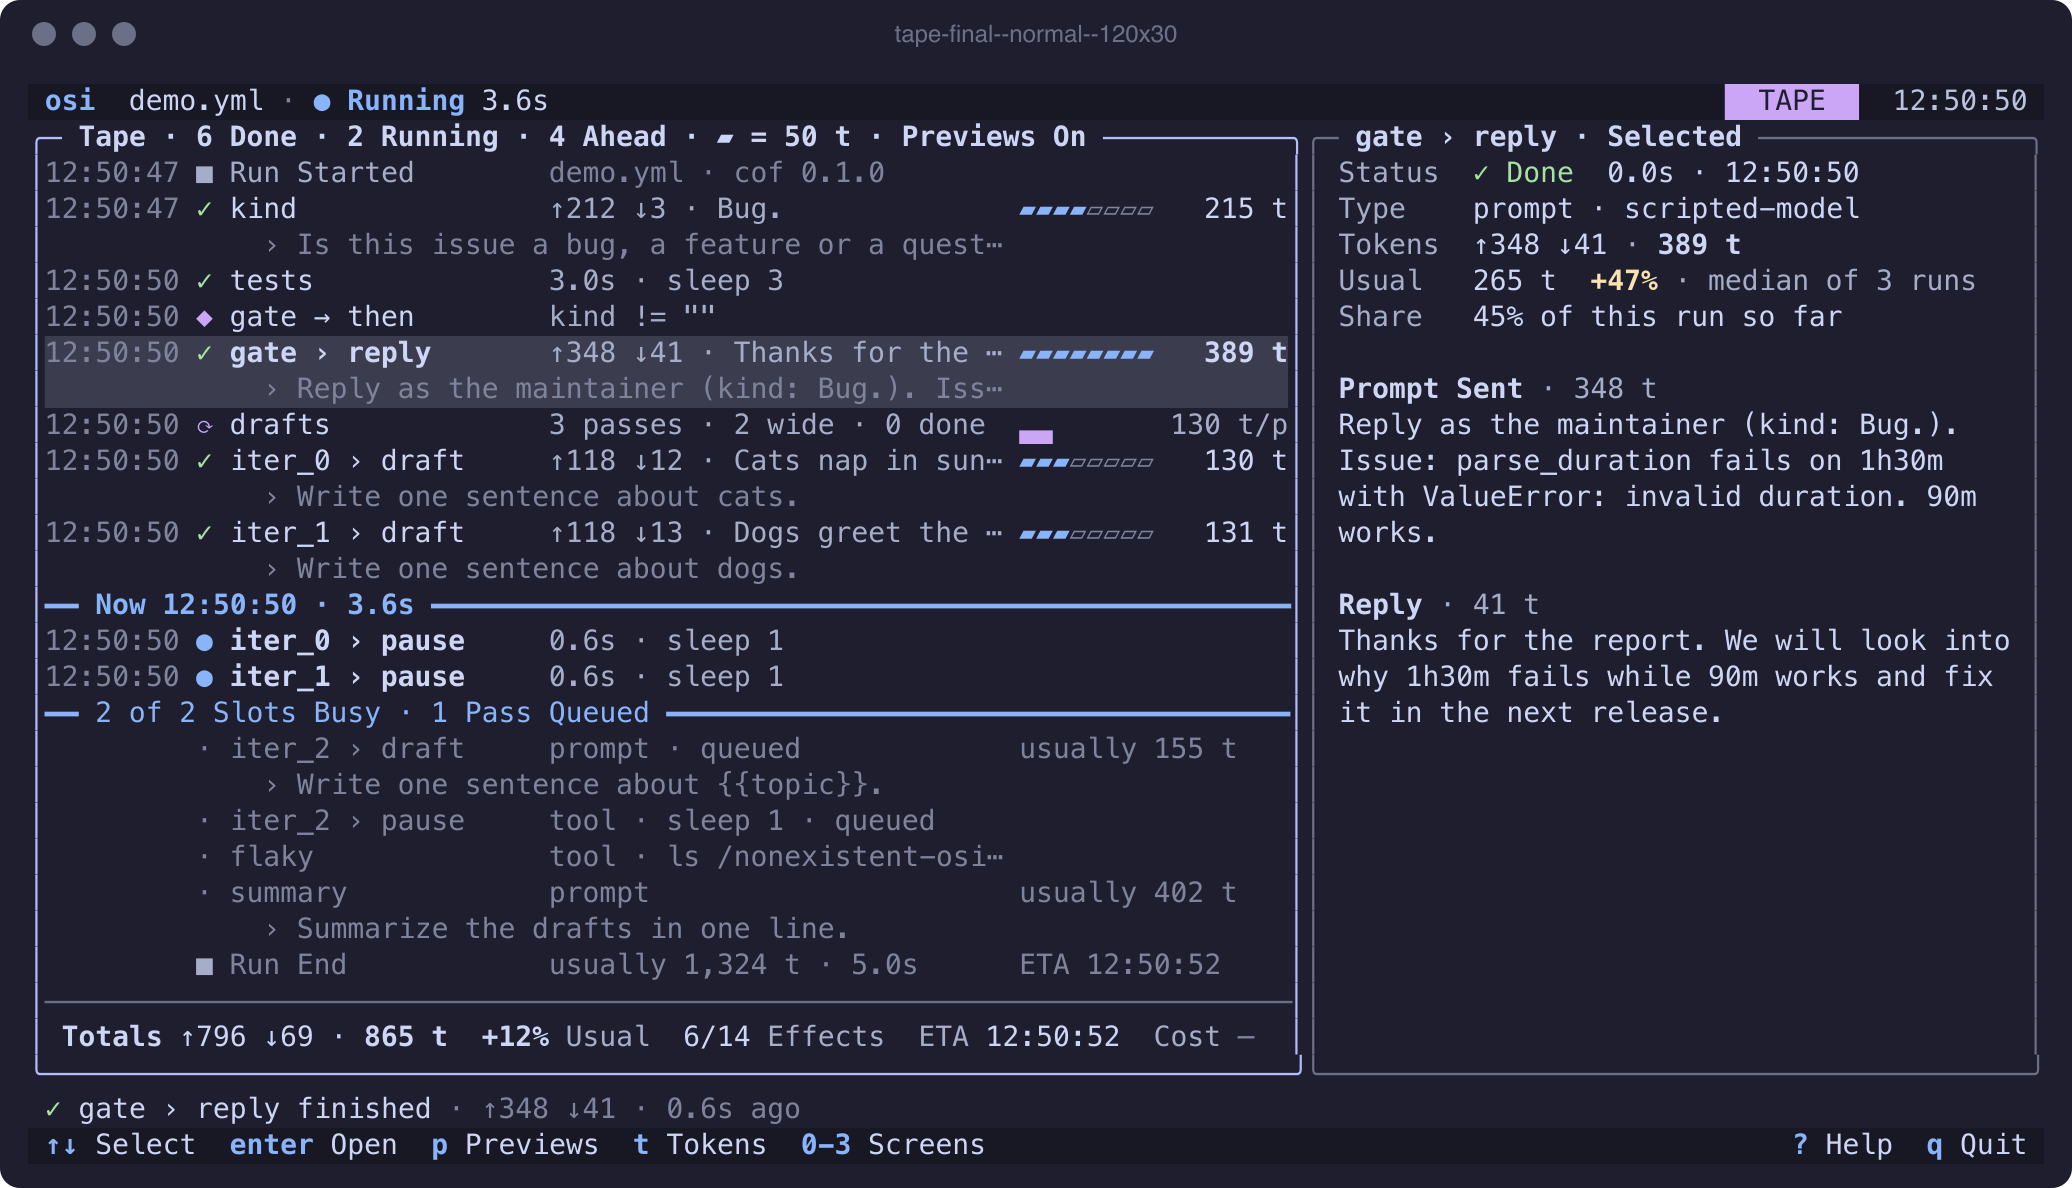
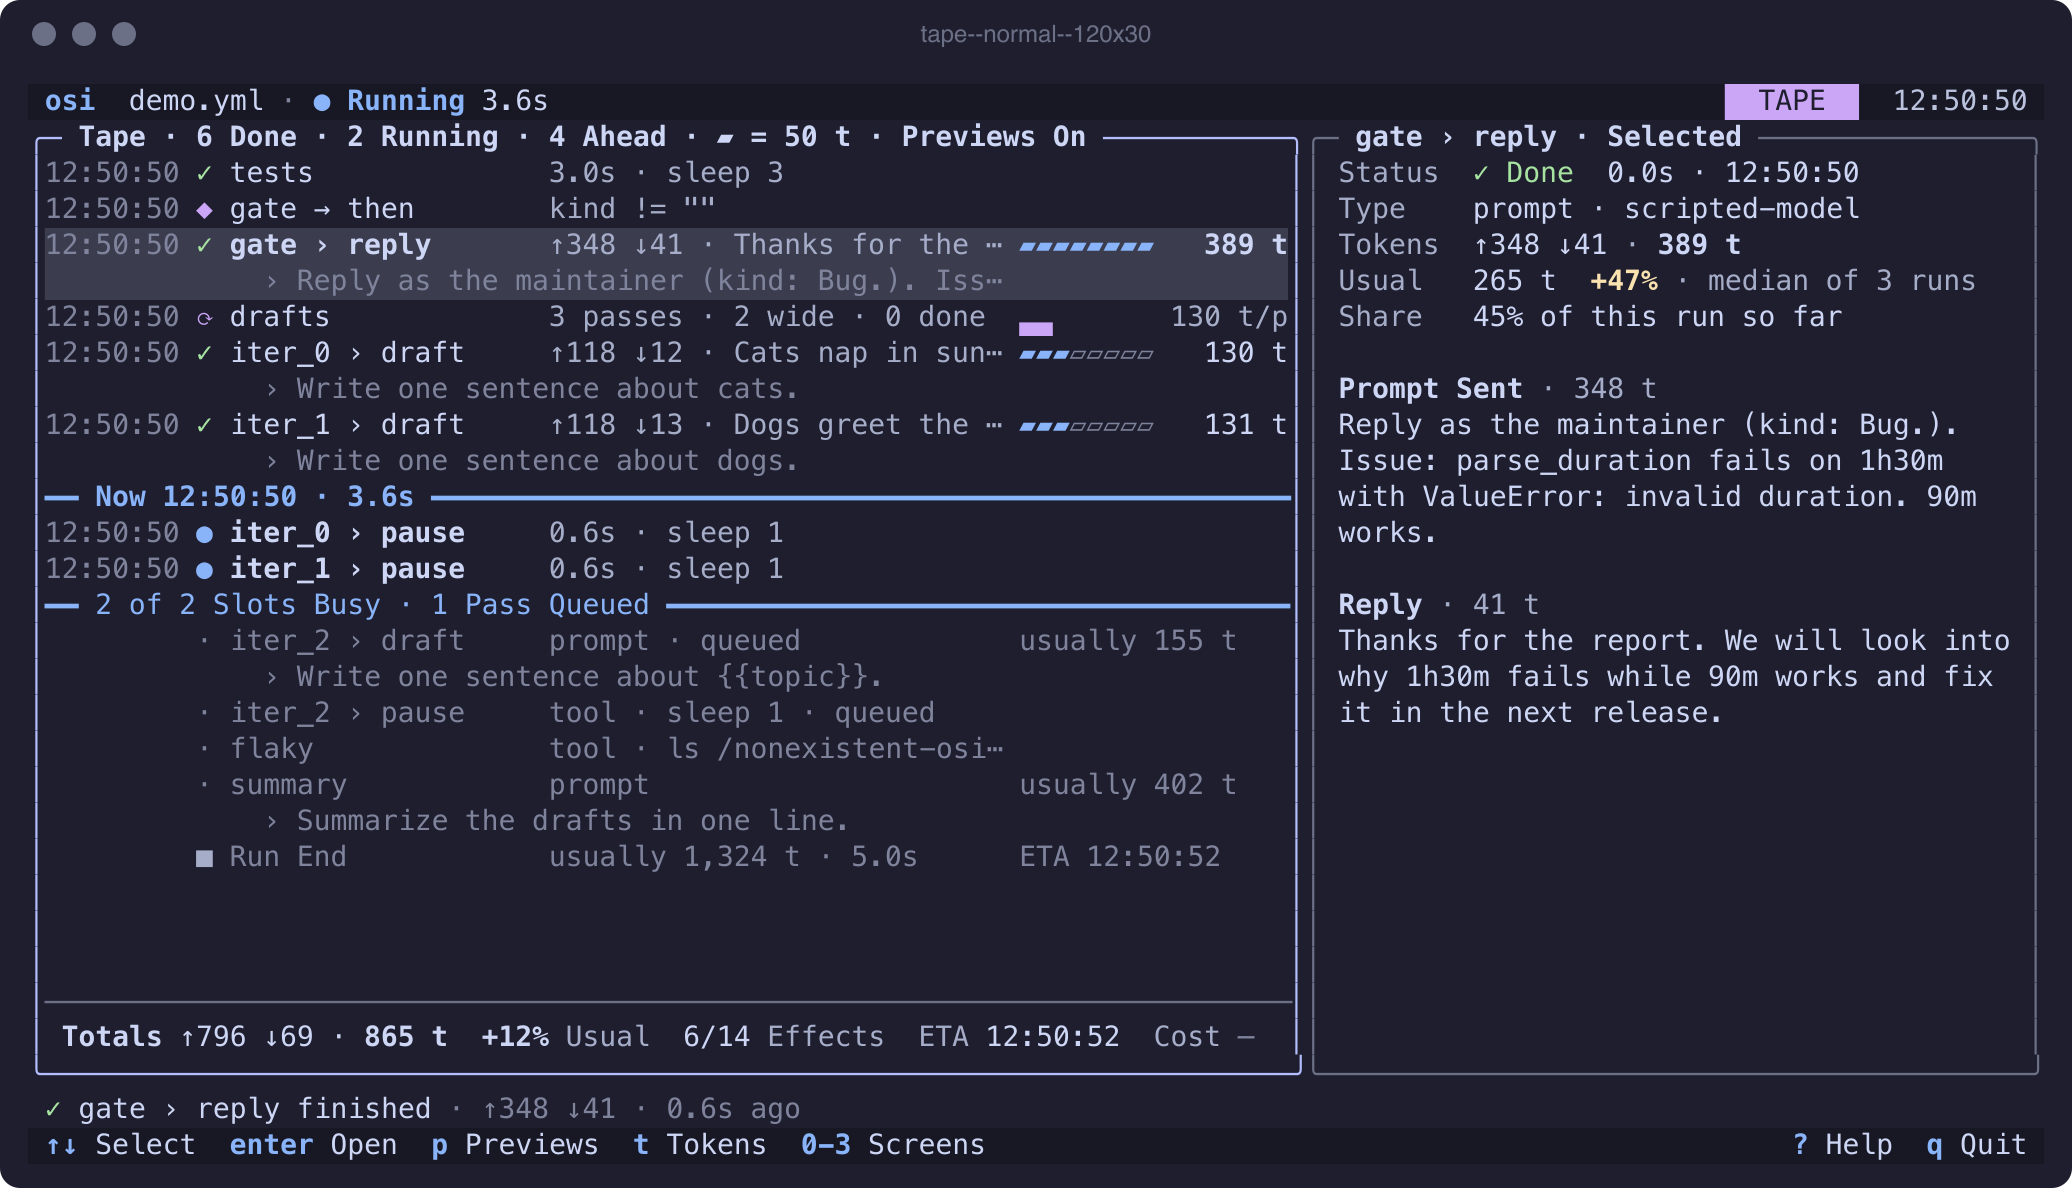
docs(osi): move the Tape frames' own rows to the centred window
tape--normal--120x30/80x24/60x24, tape--usual--120x30, tape--help--
120x30 and tape--starting--120x30 move their list rows to the window
issue #710 names; the ended, failed and too-small frames are
unaffected. Each row keeps its own text and styles byte for byte;
only blank rows and which row sits where change. The PNGs are
re-rendered with the tui-design skill's own pipeline.

tui-design.md §2.1's sentence on the list's own scrolling becomes a
statement of the centred rule.

diff --git a/oscilloscope/design/tui-design.md b/oscilloscope/design/tui-design.md
@@ -86,8 +86,9 @@ on (`p`). The **Now band**, `━━ Now 12:50:50 · 3.6s ━━`, a full-width r
 rows, bold, with how long they have run. A second rule while a loop runs: `━━ 2 of 2 Slots Busy · 1 Pass Queued ━━`.
 Then the rows ahead, faint, with their type first (`prompt · queued`, `tool · sleep 1 · queued`) and
 `usually 155 t` in the token column when history knows the step. `■ Run End` closes the list with the usual total
-and duration, and the ETA in the token column. The list keeps the Now band in view as it grows: finished rows
-scroll up and away, rows ahead come up to meet it.
+and duration, and the ETA in the token column. The Now area's own middle row sits on the list's own middle row:
+finished rows fill upward from it, newest closest, the oldest scrolling off the top; rows ahead fill downward, the
+latest scrolling off the bottom; blank above when the past is short, blank below when the plan is short.
 
 **Token column** (16 cells). `▰▰▰▰▱▱▱▱   215 t`: eight bar cells at a fixed 50 tokens each, then the count,
 thousands separated, `t` as the unit. The largest step so far has the only bold number. A loop row shows a
